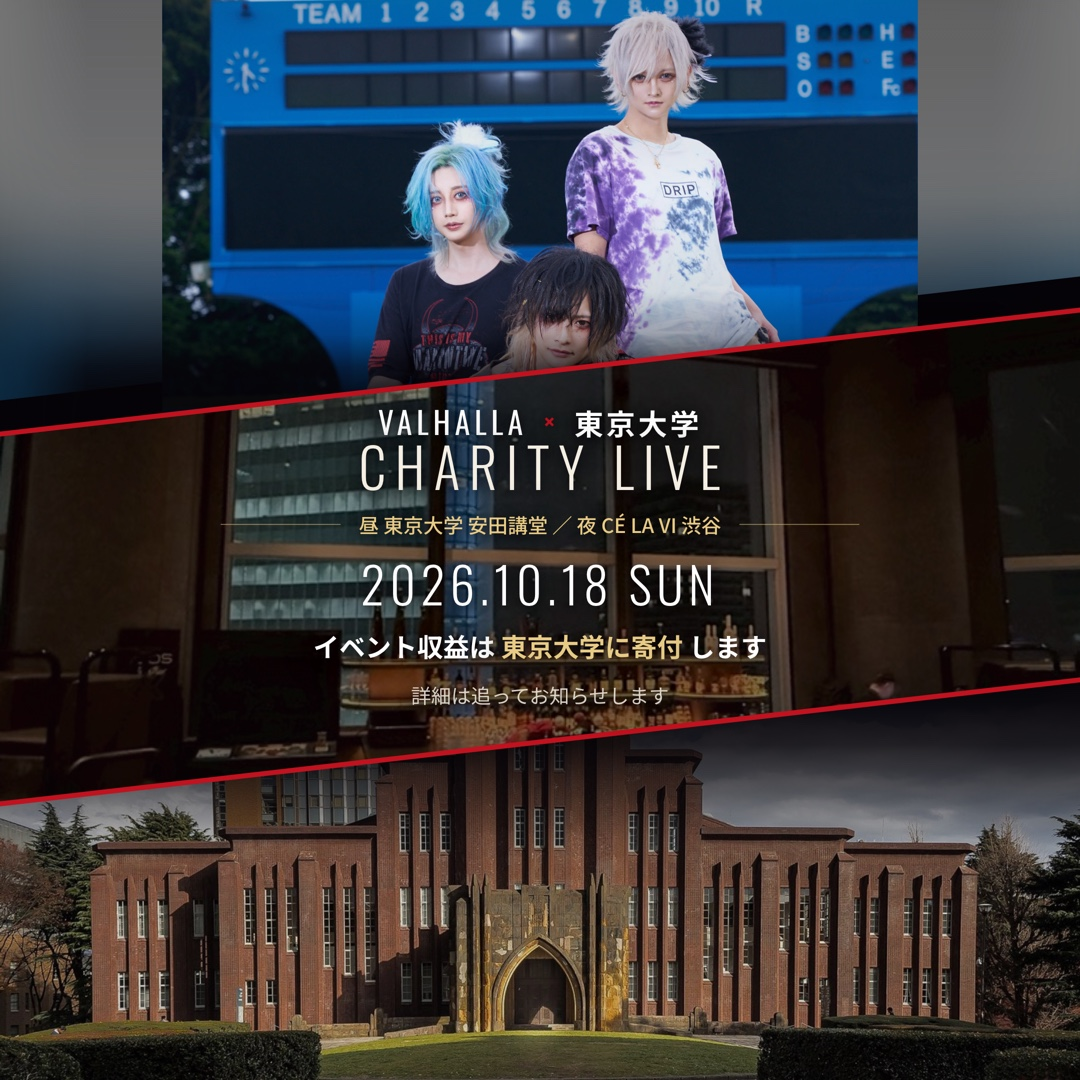
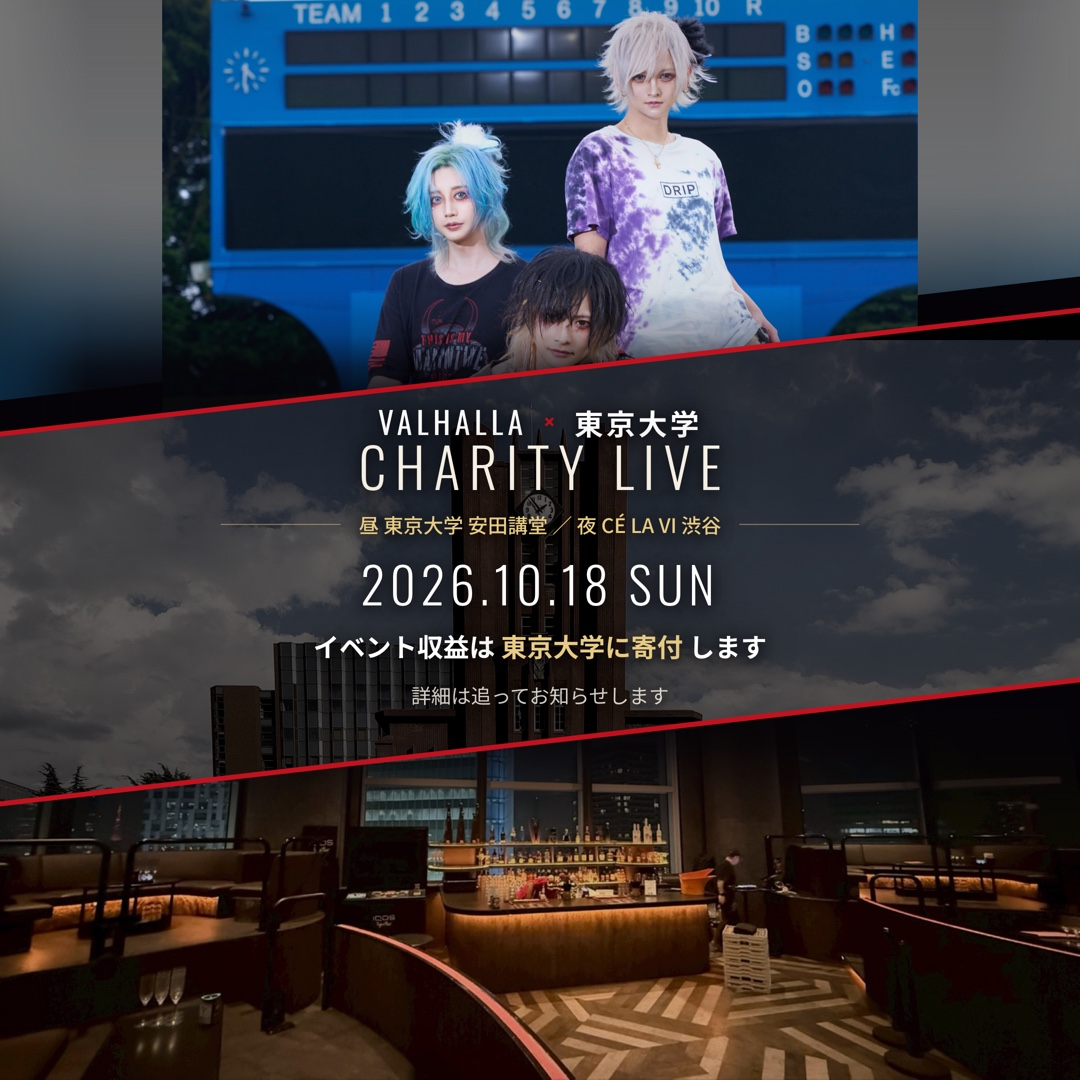
告知ティザー：安田講堂を中央の「透かし」に、下段を CÉ LA VI に
kazuma 指示「東京大学 安田講堂の写真を後ろにスカシで入れる形にしたい」。

- 中央帯を CÉ LA VI → **東京大学 安田講堂の透かし**に変更
  grayscale(.38) + sepia(.12) + contrast を掛け、暗幕もやや強めて
  「背後に透ける」見え方にした。文字の下地も兼ねる
- 下段を 東京大学 → **CÉ LA VI（venue/dj.jpg）** に入れ替え
  夜の会場が下端でくっきり見える
- 透かしの位置は時計塔の先端・時計が斜線で切れない高さに調整

結果、上=出演者 / 中=昼の本編（透かし）/ 下=夜の会場 という
時間軸の並びになり、3要素が1枚に収まっている。

diff --git a/flyer-teaser.html b/flyer-teaser.html
@@ -51,14 +51,14 @@
     clip-path:polygon(0 calc(var(--mb) + var(--drop)),100% calc(var(--mb) - var(--drop)),100% 100%,0 100%)}
   /* 中央帯：CÉ LA VI（この夜の舞台）。文字の下地も兼ねる */
   .md{position:absolute;inset:0;z-index:0;background-repeat:no-repeat;
-    background-image:url('assets/charity/venue/dj.jpg');
-    background-size:cover;background-position:center 42%;
+    background-image:url('assets/charity/venue/yasuda1.jpg');
+    filter:grayscale(.38) sepia(.12) contrast(1.14);
     clip-path:polygon(0 calc(var(--ma) + var(--drop)),100% calc(var(--ma) - var(--drop)),
                       100% calc(var(--mb) - var(--drop)),0 calc(var(--mb) + var(--drop)))}
   .md::after{content:"";position:absolute;inset:0;
     background:linear-gradient(180deg,
-      rgba(5,3,7,.94) 0%, rgba(5,3,7,.56) 13%, rgba(5,3,7,.44) 50%,
-      rgba(5,3,7,.60) 85%, rgba(5,3,7,.94) 100%)}
+      rgba(5,3,7,.95) 0%, rgba(5,3,7,.70) 13%, rgba(5,3,7,.62) 50%,
+      rgba(5,3,7,.74) 85%, rgba(5,3,7,.95) 100%)}
 
   /* 中央に向かって暗く落とすスクリム（写真の上に重ねる） */
   .up::after,.dn::after{content:"";position:absolute;inset:0}
@@ -107,10 +107,11 @@
     text-decoration:none;color:var(--grey-d)}
 
   /* ---------- 1080x1350 ---------- */
+  .t45 .md{background-size:100% auto;background-position:center 470px}
   .t45 .up{background-image:url('assets/charity/group_field.jpg');
     background-size:88% auto;background-position:center -419px}
-  .t45 .dn{background-image:url('assets/charity/venue/yasuda1.jpg');
-    background-size:100% auto;background-position:center 649px}
+  .t45 .dn{background-image:url('assets/charity/venue/dj.jpg');
+    background-size:100% auto;background-position:center 742px}
   .t45 .up-tag{top:34px}
   .t45 .dn-tag{bottom:30px}
   .t45 .tag b{font-size:29px}
@@ -129,10 +130,11 @@
   .t45 .more u{margin-top:8px;font-size:20px}
 
   /* ---------- 1080x1080 ---------- */
+  .t11 .md{background-size:100% auto;background-position:center 340px}
   .t11 .up{background-image:url('assets/charity/group_field.jpg');
     background-size:70% auto;background-position:center -337px}
-  .t11 .dn{background-image:url('assets/charity/venue/yasuda1.jpg');
-    background-size:100% auto;background-position:center 379px}
+  .t11 .dn{background-image:url('assets/charity/venue/dj.jpg');
+    background-size:100% auto;background-position:center 472px}
   .t11 .up-tag{top:28px}
   .t11 .dn-tag{bottom:24px}
   .t11 .tag b{font-size:26px}
@@ -151,10 +153,11 @@
   .t11 .more u{margin-top:7px;font-size:18px}
 
   /* ---------- 1080x1920 ---------- */
+  .t916 .md{background-size:100% auto;background-position:center 726px}
   .t916 .up{background-image:url('assets/charity/group_field.jpg');
     background-size:100% auto;background-position:center -500px}
-  .t916 .dn{background-image:url('assets/charity/venue/yasuda1.jpg');
-    background-size:118% auto;background-position:center 1093px}
+  .t916 .dn{background-image:url('assets/charity/venue/dj.jpg');
+    background-size:120% auto;background-position:center 1191px}
   .t916 .up-tag{top:150px}
   .t916 .dn-tag{bottom:120px}
   .t916 .tag b{font-size:34px}

diff --git a/docs/celavi-afterparty.md b/docs/celavi-afterparty.md
@@ -123,8 +123,9 @@
     - 狙い（kazuma 指示 2026-08-28）: 内容が未確定なので**簡素に**。
       **「東京大学 × VALHALLA」を最大に見せる**ことだけに絞る
     - 構成（kazuma 指示 2026-08-28。縦分割→**横の斜めスラッシュ**→**3バンド**へ）:
-      画面を斜めの線で3段に割り、**上＝VALHALLA／中＝CÉ LA VI（`venue/dj.jpg`）／下＝東京大学 安田講堂**。
-      中央のセラビ帯が文字の下地も兼ねる（文字には影を付けて可読性を確保）。
+      画面を斜めの線で3段に割り、**上＝VALHALLA／中＝東京大学 安田講堂の「透かし」／下＝CÉ LA VI（`venue/dj.jpg`）**。
+      中央の安田講堂は grayscale+sepia を掛けて透かしにし、文字の下地も兼ねる
+      （文字には影を付けて可読性を確保）。時計塔の先端が斜線で切れないよう位置を調整すること。
       上端・下端に向かうほど写真がくっきり、中央に向かうほど暗く落として、
       その暗い帯に文字を置く。斜線（クリムゾン）は文字を避けて左右にだけ走らせる。
     - 調整の基準（kazuma 2026-08-28）:
